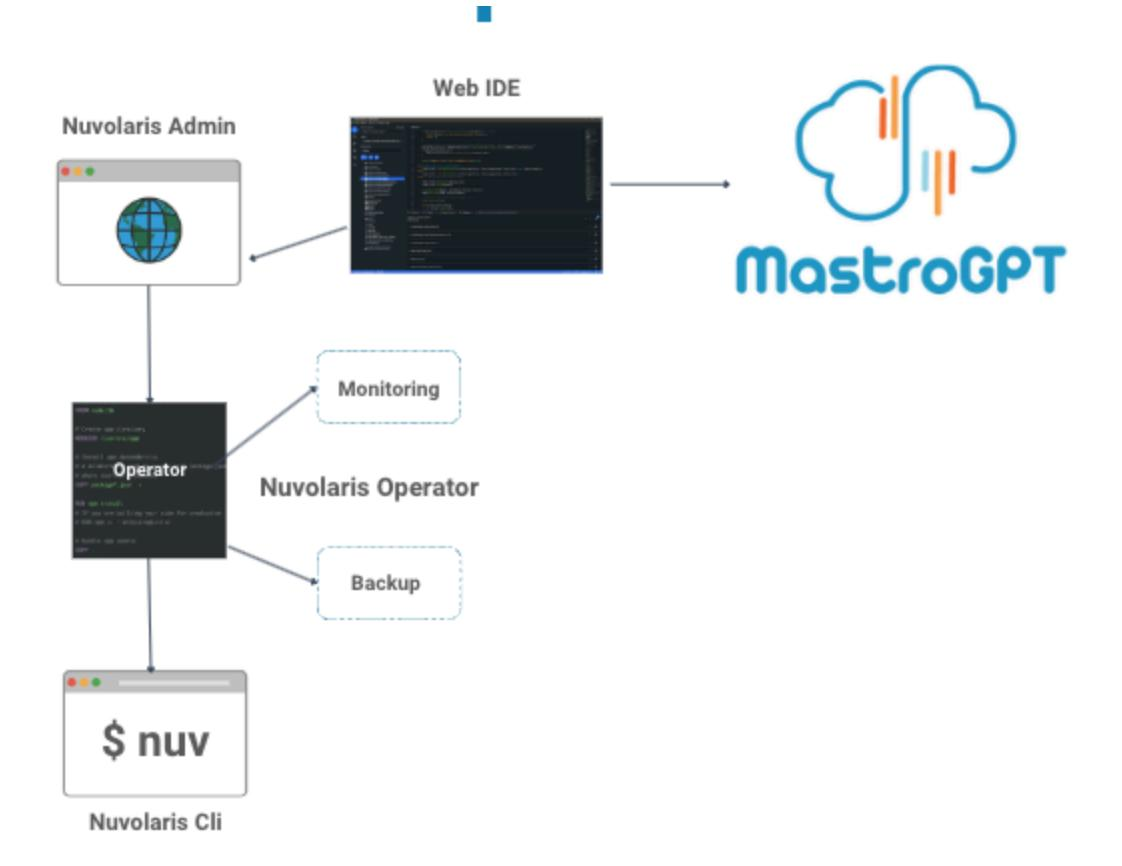
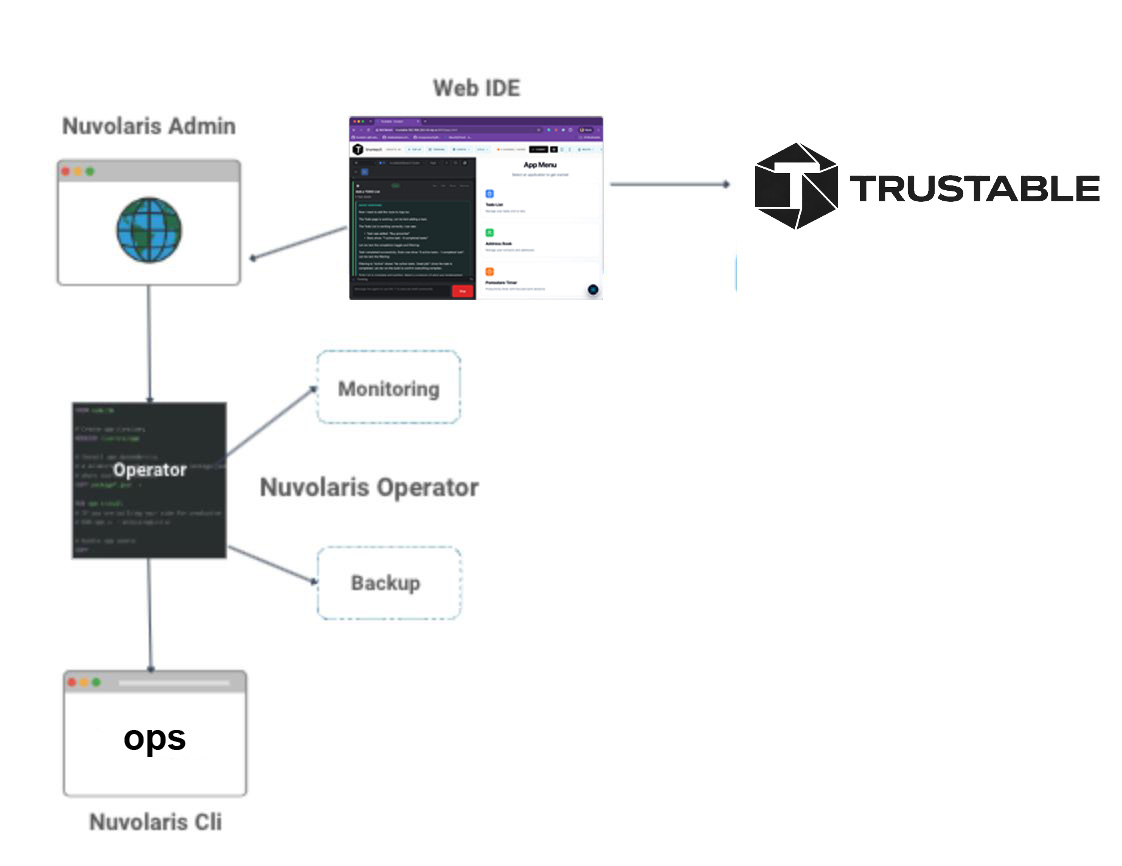
Rebuild the site
Regenerated the catalog into static/index.json, downloaded the application images into static/images/, regenerated the Apps gallery and rebuilt docs/ with zola. Committed by build.sh.

diff --git a/docs/app/index.html b/docs/app/index.html
@@ -3,10 +3,10 @@
   <head>
     <meta charset="UTF-8" />
     <meta name="viewport" content="width=device-width, initial-scale=1" />
-    <title>Integrated Services — Trustable</title>
+    <title>App — Trustable</title>
     <meta
       name="description"
-      content="Redis cache, SeaweedFS object storage, PostgreSQL and FerretDB, Milvus vector database, Prometheus monitoring and Velero backup."
+      content="A Lovable-like experience for Private AI. Build, run and publish AI applications that never leave your own infrastructure."
     />
     <link rel="icon" href="/trustable-logo.svg" type="image/svg+xml" />
     <link rel="preconnect" href="https://fonts.googleapis.com" />
@@ -702,12 +702,12 @@
         
       
       <aside class="sidebar">
-        <h2>Architecture</h2>
-        <nav aria-label="Nuvolaris Architecture">
+        <h2>Trustable — A Lovable-like Experience for Private AI</h2>
+        <nav aria-label="Trustable — A Lovable-like Experience for Private AI">
           <ul>
             <li>
               <a
-                href="https://trustable.it/architecture/"
+                href="https://trustable.it/"
                 
                 >Overview</a
               >
@@ -716,49 +716,40 @@
             
             <li>
               <a
-                href="https://trustable.it/architecture/introducing-nuvolaris/"
-                
-                >Introducing Nuvolaris</a
-              >
-            </li>
-            
-            
-            <li>
-              <a
-                href="https://trustable.it/architecture/serverless-engine/"
-                
-                >The Serverless Engine</a
-              >
-            </li>
-            
-            
-            <li>
-              <a
-                href="https://trustable.it/architecture/components/"
-                
-                >Nuvolaris Components</a
-              >
-            </li>
-            
-            
-            <li>
-              <a
-                href="https://trustable.it/architecture/integrated-services/"
+                href="https://trustable.it/app/"
                 aria-current="page"
-                >Integrated Services</a
+                >App</a
+              >
+            </li>
+            
+            
+            
+            
+            <li>
+              <a
+                href="https://trustable.it/documentation/"
+                
+                >Documentation</a
               >
             </li>
             
             
             <li>
               <a
-                href="https://trustable.it/architecture/supported-clouds/"
+                href="https://trustable.it/architecture/"
                 
-                >Supported Clouds</a
+                >Nuvolaris Architecture</a
               >
             </li>
             
             
+            <li>
+              <a
+                href="https://trustable.it/apps/"
+                
+                >Apps</a
+              >
+            </li>
             
           </ul>
         </nav>
@@ -766,39 +757,10 @@
 
       <article class="prose">
         
-        <h1>Integrated Services</h1>
+        <h1>App</h1>
         
         
-        <p>Nuvolaris includes a number of integrated services as shown in Figure 4: the
-data services that applications use directly, and the operational services that
-keep the platform healthy.</p>
-<p><img src="https://trustable.it/architecture/integrated-services/_page_11_Picture_3.jpeg" alt="Data services: Redis, Milvus, SeaweedFS and PostgreSQL" /></p>
-<p><img src="https://trustable.it/architecture/integrated-services/_page_11_Picture_4.jpeg" alt="Prometheus monitoring" /></p>
-<p><img src="https://trustable.it/architecture/integrated-services/_page_11_Picture_5.jpeg" alt="Velero backup" /></p>
-<p><strong>Figure 4</strong></p>
-<h2 id="1-redis-cache">1. Redis Cache</h2>
-<p>Redis (Remote Dictionary Server) is an open-source, in-memory data structure store primarily used as a cache and message broker. Redis is particularly well-suited for caching due to its low latency and high throughput, as it stores data directly in memory, unlike traditional databases that rely on disk storage.</p>
-<p>In a serverless platform like Nuvolaris, Redis acts as a high-performance layer to cache dynamic content, optimises response times and improves overall application speed.</p>
-<h2 id="2-milvus-vector-database">2. Milvus Vector Database</h2>
-<p>Milvus is an open-source vector database built for storing, indexing and searching the high-dimensional embeddings produced by AI models. Instead of matching exact values, it answers similarity queries — “which stored vectors are closest to this one” — over billions of entries, using indexes such as HNSW and IVF, and combines them with ordinary metadata filtering.</p>
-<p>In Nuvolaris, Milvus is the retrieval layer for AI workloads: it holds the embeddings of documents, images and other content so that applications built with <a href="https://trustable.it/documentation/">Trustable</a> can implement retrieval-augmented generation, semantic search and recommendation entirely on your own infrastructure, with no data leaving the cluster.</p>
-<h2 id="3-seaweedfs-object-storage">3. SeaweedFS Object Storage</h2>
-<p>We include an S3 storage using SeaweedFS.</p>
-<p>SeaweedFS is an Apache 2.0 licensed open-source, Amazon S3-compatible distributed object store. It is designed around fast key-to-file lookups, which makes it particularly efficient at handling very large numbers of small objects, and it scales out by simply adding volume servers. Optional replication and erasure coding let you trade storage cost against durability without changing the S3 API your applications use.</p>
-<p>Being S3-compatible, it is an ideal on-premise storage solution for private cloud environments or hybrid deployments: applications talk to it with the ordinary S3 API, so anything written against S3 works unchanged.</p>
-<p>In the Nuvolaris ecosystem, SeaweedFS provides a robust object storage solution that can be used to store application data, backups, and even static content, ensuring that data is both secure and accessible.</p>
-<h2 id="4-postgresql-and-ferretdb-database">4. PostgreSQL and FerretDB Database</h2>
-<p>PostgreSQL, often referred to as Postgres, is an open-source relational database known for its extensibility, reliability, and SQL compliance. It is widely regarded as one of the most advanced databases available, especially within cloud-native ecosystems.</p>
-<p>FerretDB is an optional layer on top of that same PostgreSQL instance — which is why the figure shows only PostgreSQL. It is an open-source database that acts as a drop-in replacement for MongoDB, using PostgreSQL as its storage backend. It is ideal for users who want MongoDB-like functionality without the restrictions and licensing constraints of MongoDB, especially as MongoDB’s licensing changes have impacted its use in certain environments.</p>
-<p>In a Nuvolaris setup, PostgreSQL and FerretDB provides robust database services for handling application data that requires relational structure and advanced querying capabilities, which is particularly valuable for data-driven application.</p>
-<h2 id="5-prometheus-monitoring">5. Prometheus Monitoring</h2>
-<p>Prometheus is an open-source monitoring and alerting toolkit designed specifically for reliability and scalability in cloud-native environments. It collects and stores metrics data, offering visibility into system health and performance.</p>
-<p>In Nuvolaris, Prometheus is essential for monitoring the health of services and infrastructure, enabling proactive incident response and resource optimization in a scalable, serverless environment.</p>
-<h2 id="6-velero-backup">6. Velero Backup</h2>
-<p>Velero is an open-source tool for managing Kubernetes backups, disaster recovery, and migration. It’s designed specifically for Kubernetes clusters and provides reliable backup, restore, and migration of cluster resources and persistent volumes.</p>
-<p>For Nuvolaris, Velero is vital in ensuring business continuity, providing peace of mind with automated backups and quick recovery options, reducing data loss risk and maintaining application availability in the case of accidental deletion, corruption, or failure.</p>
-<p>Next: <a href="https://trustable.it/architecture/supported-clouds/">Supported Clouds</a>.</p>
-
+        
 
       </article>
     </main>

diff --git a/docs/architecture/introducing-nuvolaris/index.html b/docs/architecture/introducing-nuvolaris/index.html
@@ -6,7 +6,7 @@
     <title>Introducing Nuvolaris — Trustable</title>
     <meta
       name="description"
-      content="Multi-cloud compatibility, integrated frontend and backend services, an extensible CLI, a low-code console and a full-code cloud IDE."
+      content="Multi-cloud compatibility, integrated frontend and backend services, an extensible CLI, a low-code console, a full-code cloud IDE and the Trustable AI workbench."
     />
     <link rel="icon" href="/trustable-logo.svg" type="image/svg+xml" />
     <link rel="preconnect" href="https://fonts.googleapis.com" />
@@ -771,20 +771,23 @@
         
         <p>Nuvolaris is a cloud-native platform implementing a complete serverless
 environment. Figure 1 gives a bird’s eye view of Nuvolaris.</p>
-<p><img src="https://trustable.it/architecture/introducing-nuvolaris/_page_2_Figure_3.jpeg" alt="Bird’s eye view of the Nuvolaris platform" /></p>
+<p><img src="https://trustable.it/architecture/introducing-nuvolaris/_page_2_Figure_3.jpeg" alt="Bird’s eye view: the OpenWhisk controller, invokers and runtimes at the centre, with Redis, Milvus, SeaweedFS and PostgreSQL on the left, the admin console, operator, CLI and Trustable on the right, and Prometheus and Velero for monitoring and backup" /></p>
 <p><strong>Figure 1</strong></p>
 <p>Nuvolaris provides a powerful and flexible environment designed for developing and deploying modern cloud-native applications efficiently. Here’s a more in-depth look at its key features and capabilities:</p>
 <h2 id="1-multi-cloud-and-private-cloud-compatibility-with-kubernetes">1. Multi-Cloud and Private Cloud Compatibility with Kubernetes</h2>
 <p>Nuvolaris is built to work seamlessly across a wide range of Kubernetes distributions. This adaptability means that whether you’re using public cloud providers (like AWS, Google Cloud, or Azure) or operating within a private cloud setup, Nuvolaris can run smoothly. The flexibility of Kubernetes orchestration is fully leveraged here, allowing users to scale applications across diverse environments while ensuring robust deployment and management consistency.</p>
 <h2 id="2-integrated-development-services-for-both-frontend-and-backend">2. Integrated Development Services for Both Frontend and Backend</h2>
 <p>Nuvolaris provides a suite of integrated tools and services designed specifically to support full-stack development. Backend functionality is supported seamlessly, allowing for microservices and serverless architectures that are scalable and performant. For frontend needs, it integrates tools to streamline UI development, making it easier to build and deploy end-to-end applications in a single environment.</p>
+<p>As shown on the left of Figure 1, these services come with the platform rather than being assembled per project: Redis for caching, Milvus as the vector database for AI workloads, SeaweedFS for S3-compatible object storage and PostgreSQL for relational data. Prometheus and Velero cover monitoring and backup on the operational side.</p>
 <h2 id="3-a-rich-extensible-cli-for-administration-and-development">3. A Rich, Extensible CLI for Administration and Development</h2>
 <p>The Nuvolaris Command Line Interface (CLI) is one of its core strengths. Designed to support both administration and development, the CLI is highly extensible, enabling users to customise and expand its functionalities as needed. This CLI allows for straightforward setup, management, and maintenance of deployments and resources, catering to both developers’ needs and system administrators’ requirements. By combining administrative and development capabilities into a single, robust CLI, Nuvolaris simplifies interaction and control for all roles involved in the software lifecycle.</p>
 <h2 id="4-low-code-administrative-console-for-rapid-prototyping-and-editing">4. Low-Code Administrative Console for Rapid Prototyping and Editing</h2>
 <p>Nuvolaris includes a low-code administrative console, a user-friendly interface that allows both technical and non-technical users to build, edit, and quickly prototype applications. This console is particularly useful for projects requiring frequent updates or iterative changes, as it allows for swift modifications without needing extensive code changes.</p>
 <h2 id="5-full-code-development-environment-with-cloud-based-ide-support">5. Full-Code Development Environment with Cloud-Based IDE Support</h2>
 <p>For developers seeking a full-code experience, Nuvolaris offers a complete, cloud-based development environment that is compatible with CodeSpace and other popular IDEs. This full-code support in the cloud allows for comprehensive application development, testing, and deployment from a single online workspace. Developers benefit from the flexibility to code freely while leveraging cloud resources, thus ensuring high productivity without the constraints of local environments.</p>
-<p>In essence, Nuvolaris combines multi-cloud flexibility, a full-stack development ecosystem, powerful CLI tooling, a low-code console, and a fully functional coding environment to streamline and enhance the entire development pipeline from start to finish. These features collectively make Nuvolaris an adaptable and efficient platform for teams looking to build, deploy and manage applications across a variety of environments with ease and precision.</p>
+<h2 id="6-trustable-the-private-ai-workbench">6. Trustable, the Private AI Workbench</h2>
+<p>At the top right of Figure 1 sits <a href="https://trustable.it/documentation/">Trustable</a>, the Private AI workbench that the Web IDE opens into. It is a Lovable-like experience for Private AI: you describe the application you want, an AI coding assistant writes it, and the result runs on the same cluster as everything else in the figure — using the integrated runtimes, object storage and vector database rather than any external service. Applications start from ready-made starters and templates, live in their own repositories, and move from development to production without leaving your infrastructure.</p>
+<p>In essence, Nuvolaris combines multi-cloud flexibility, a full-stack development ecosystem, powerful CLI tooling, a low-code console, a fully functional coding environment and the Trustable AI workbench to streamline and enhance the entire development pipeline from start to finish. These features collectively make Nuvolaris an adaptable and efficient platform for teams looking to build, deploy and manage applications across a variety of environments with ease and precision.</p>
 <p>Next: <a href="https://trustable.it/architecture/serverless-engine/">The Serverless Engine</a>.</p>
 
 

diff --git a/docs/architecture/components/index.html b/docs/architecture/components/index.html
@@ -6,7 +6,7 @@
     <title>Nuvolaris Components — Trustable</title>
     <meta
       name="description"
-      content="The Kubernetes operator, the CLI, the Console and MastroGPT — the management stack around OpenWhisk."
+      content="The Kubernetes operator, the CLI, the Console and Trustable — the management stack around OpenWhisk."
     />
     <link rel="icon" href="/trustable-logo.svg" type="image/svg+xml" />
     <link rel="preconnect" href="https://fonts.googleapis.com" />
@@ -769,8 +769,8 @@
         <h1>Nuvolaris Components</h1>
         
         
-        <p>Nuvolaris setup includes a comprehensive management stack for OpenWhisk and its services on Kubernetes, composed of a Kubernetes operator, a CLI, and a console for function development and management. Figure 3 depicts how each component contributes to seamless deployment, configuration, and operation.</p>
-<p><img src="https://trustable.it/architecture/components/_page_8_Picture_1.jpeg" alt="The Nuvolaris management components around OpenWhisk" /></p>
+        <p>Nuvolaris setup includes a comprehensive management stack for OpenWhisk and its services on Kubernetes, composed of a Kubernetes operator, a CLI, a console for function development and management, and the Trustable workbench. Figure 3 depicts how each component contributes to seamless deployment, configuration, and operation: the operator drives monitoring and backup and is steered from the admin console and the CLI, while the Web IDE opens into Trustable.</p>
+<p><img src="https://trustable.it/architecture/components/_page_8_Picture_1.jpeg" alt="Nuvolaris Admin, the Web IDE and Trustable above the operator, which drives monitoring and backup, with the Nuvolaris CLI below" /></p>
 <p><strong>Figure 3</strong></p>
 <h2 id="1-kubernetes-operator">1. Kubernetes Operator</h2>
 <ul>
@@ -789,15 +789,15 @@
 <ul>
 <li>The console offers a web-based platform for creating, managing, and deploying serverless functions, as well as launching development environments for rapid prototyping.</li>
 <li>Within the console, developers can write, edit, and test serverless functions, with syntax highlighting for languages like JavaScript, Python, and Go.</li>
-<li>The console’s integrated launcher for <strong>Web IDE</strong> allows users to launch starter projects or templates for common serverless applications, with pre-configured boilerplate code to build LLM based applications. This supports fast setup and enables new developers to get up and running quickly.</li>
+<li>The console’s integrated launcher for <strong>Web IDE</strong> allows users to launch starter projects or templates for common serverless applications, with pre-configured boilerplate code to build LLM based applications. This supports fast setup and enables new developers to get up and running quickly, and it is the entry point into Trustable, described next.</li>
 </ul>
-<h2 id="4-mastrogpt">4. MastroGPT</h2>
+<h2 id="4-trustable">4. Trustable</h2>
 <ul>
-<li>MastroGPT is the AI development platform within Nuvolaris, designed to streamline the creation of AI applications.</li>
-<li>With MastroGPT, developers can start quickly using ready-made templates (or “starters”) that cover popular AI use cases, helping teams launch projects rapidly.</li>
-<li>Applications built on MastroGPT can be deployed seamlessly across various environments, from private clouds to on-premises setups or even public clouds.</li>
+<li><a href="https://trustable.it/documentation/">Trustable</a> is the Private AI workbench within Nuvolaris: a Lovable-like experience where you describe the application you want, an AI coding assistant writes it, and the result runs on your own infrastructure — your models, your data, your cluster.</li>
+<li>Developers start from ready-made starters and from a catalog of templates — reusable multi-step prompts covering common AI use cases — so a project goes from an empty repository to a running application in minutes.</li>
+<li>Each application lives in its own repository and moves between two states, development and production, so applications built with Trustable can be published across environments, from private clouds to on-premises setups or even public clouds.</li>
 </ul>
-<p>Together, the Kubernetes operator, CLI, the Console and MastroGPT offer a full-featured, integrated system for managing OpenWhisk. This combination provides flexibility for developers, operational control for administrators, and visibility into system performance, ensuring a smooth, efficient, and secure serverless environment.</p>
+<p>Together, the Kubernetes operator, CLI, the Console and Trustable offer a full-featured, integrated system for managing OpenWhisk. This combination provides flexibility for developers, operational control for administrators, and visibility into system performance, ensuring a smooth, efficient, and secure serverless environment.</p>
 <p>Next: <a href="https://trustable.it/architecture/integrated-services/">Integrated Services</a>.</p>
 
 

diff --git a/docs/architecture/index.html b/docs/architecture/index.html
@@ -770,9 +770,9 @@
         <h1>Nuvolaris Architecture</h1>
         <p>Nuvolaris is a cloud-native platform implementing a complete serverless
 environment. It combines multi-cloud flexibility, a full-stack development
-ecosystem, powerful CLI tooling, a low-code console and a fully functional
-coding environment to streamline the entire development pipeline from start to
-finish.</p>
+ecosystem, powerful CLI tooling, a low-code console, a fully functional coding
+environment and the Trustable Private AI workbench to streamline the entire
+development pipeline from start to finish.</p>
 <p>This paper describes the architecture in five parts:</p>
 <ul>
 <li><a href="https://trustable.it/architecture/introducing-nuvolaris/">Introducing Nuvolaris</a> — the
@@ -780,9 +780,9 @@ platform’s key features and capabilities.</li>
 <li><a href="https://trustable.it/architecture/serverless-engine/">The Serverless Engine</a> — Apache
 OpenWhisk, and what happens internally when an action runs.</li>
 <li><a href="https://trustable.it/architecture/components/">Nuvolaris Components</a> — the Kubernetes
-operator, the CLI, the Console and MastroGPT.</li>
-<li><a href="https://trustable.it/architecture/integrated-services/">Integrated Services</a> — Redis, object
-storage, the databases, monitoring and backup.</li>
+operator, the CLI, the Console and Trustable.</li>
+<li><a href="https://trustable.it/architecture/integrated-services/">Integrated Services</a> — Redis,
+Milvus, SeaweedFS object storage, the databases, monitoring and backup.</li>
 <li><a href="https://trustable.it/architecture/supported-clouds/">Supported Clouds</a> — public cloud,
 private cloud and bare-metal deployments.</li>
 </ul>
